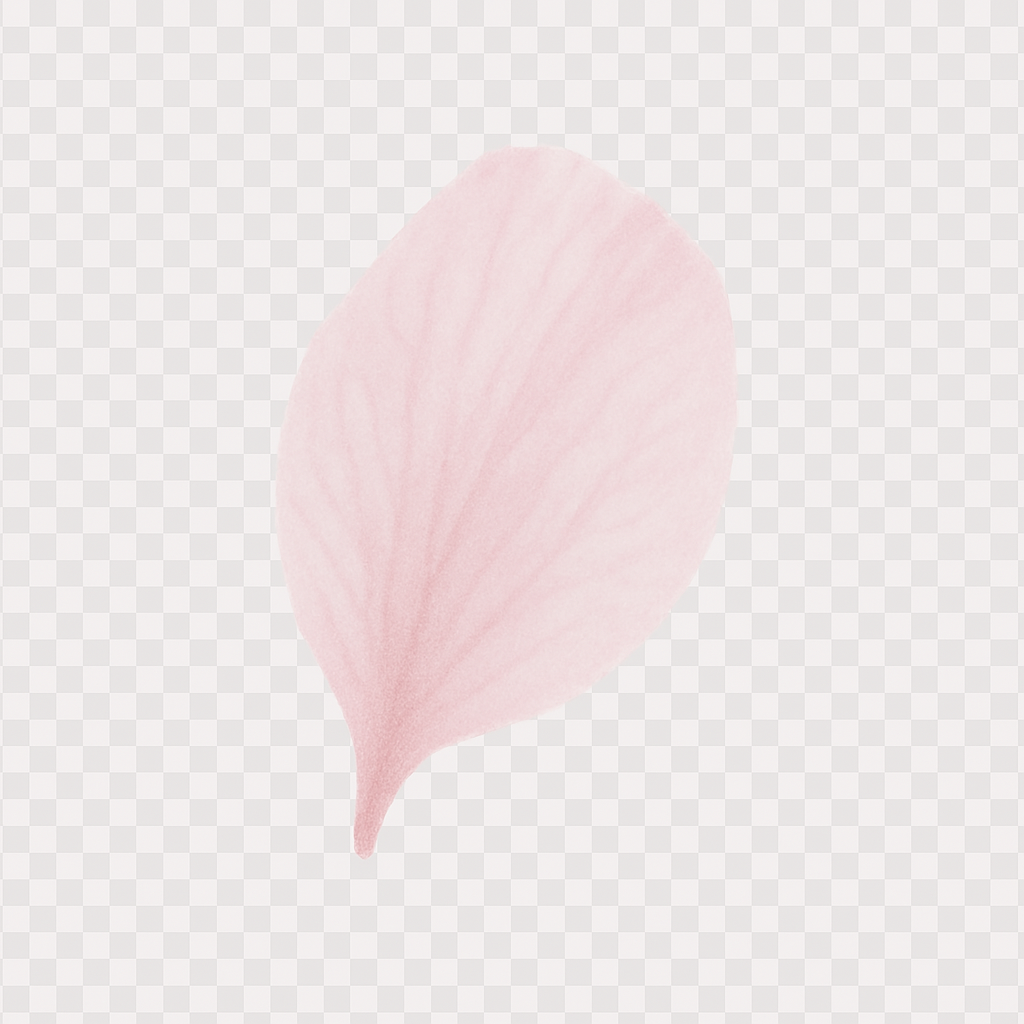
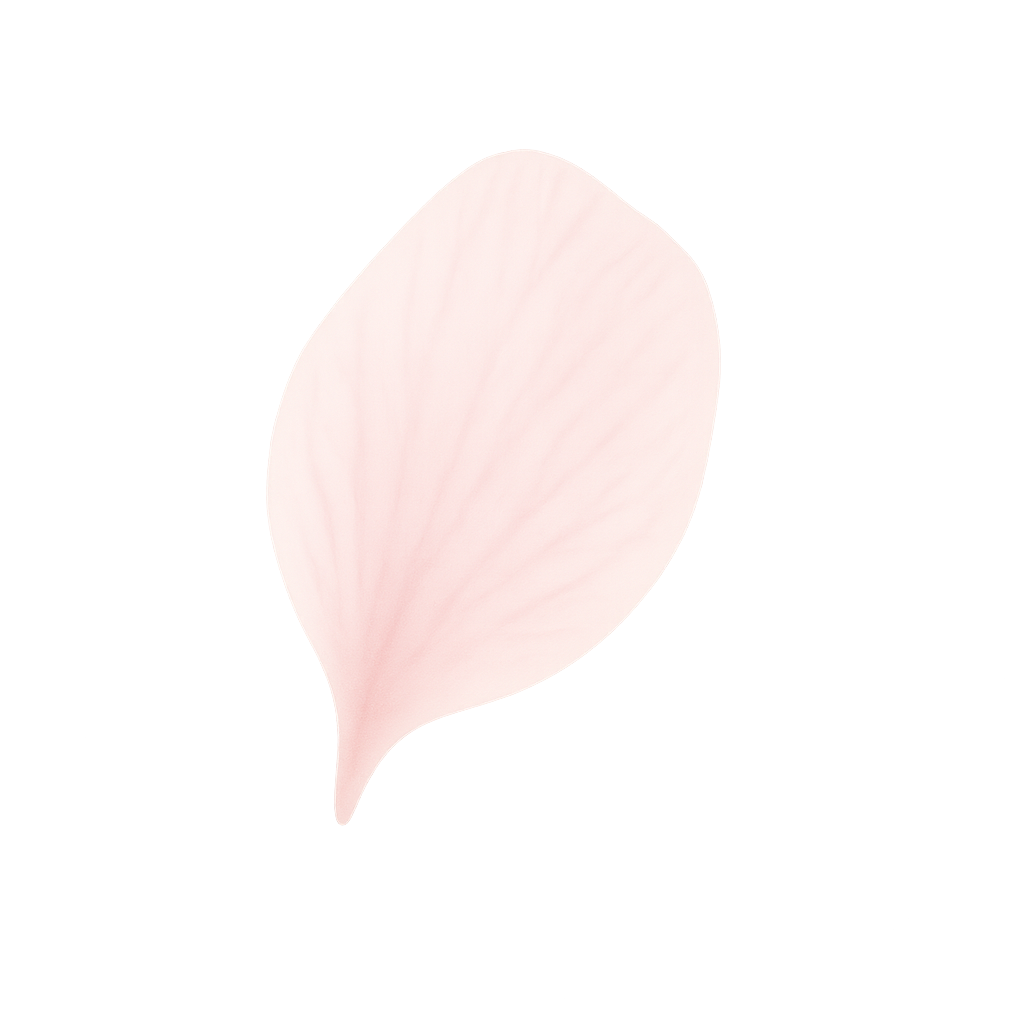
꽃잎 떨어지는 효과 개발

diff --git a/src/components/CherryBlossom.vue b/src/components/CherryBlossom.vue
@@ -1,0 +1,63 @@
+<script setup lang="ts">
+import { computed } from 'vue'
+
+const imageUrl = computed(() => {
+  const num = Math.floor(Math.random() * 5) + 1
+  return `/images/cherry-blossom-leaf-${num}.png`
+})
+
+const petalStyle = computed(() => {
+  const duration = randomBetween(10, 18)
+  const delay = randomBetween(0, 8)
+
+  return {
+    left: `${randomBetween(-10, 100)}%`, // 화면 바깥쪽에서도 애니메이션 시작하도록
+    animationDelay: `${delay}s`,
+    animationDuration: `${duration}s`, // 천천히 떨어지는 효과
+    transform: `scale(${randomBetween(0.4, 0.6)}) rotate(${randomBetween(0, 360)}deg)`, // 크기 랜덤으로 조정
+    opacity: randomBetween(0.7, 1), // 투명도 추가
+    zIndex: Math.floor(randomBetween(5, 15)), // zIndex가 모두 동일하지 않게
+  }
+})
+
+function randomBetween(min: number, max: number) {
+  return Math.random() * (max - min) + min
+}
+</script>
+
+<template>
+  <img class="falling-petal" :src="imageUrl" alt="petal" :style="petalStyle" />
+</template>
+
+<style scoped>
+.falling-petal {
+  position: fixed;
+  top: -10%;
+  width: 24px;
+  height: auto;
+  pointer-events: none;
+  user-select: none;
+  /* 성능 최적화 => transform이 바뀔 거라고 브라우저에 알려줌 */
+  will-change: transform;
+  animation-name: fall;
+  /* 가속도 곡선 => 부드럽게 흔들리며 떨어지는 효과 */
+  animation-timing-function: cubic-bezier(0.45, 0, 0.55, 1);
+  /** 애니메이션 무한 반복 */
+  animation-iteration-count: infinite;
+}
+
+@keyframes fall {
+  0% {
+    transform: translateX(0) translateY(0) rotate(0deg);
+  }
+  30% {
+    transform: translateX(-10vw) translateY(30vh) rotate(60deg);
+  }
+  60% {
+    transform: translateX(10vw) translateY(60vh) rotate(120deg);
+  }
+  100% {
+    transform: translateX(-5vw) translateY(100vh) rotate(180deg);
+  }
+}
+</style>

diff --git a/src/App.vue b/src/App.vue
@@ -2,6 +2,7 @@
 import { storeToRefs } from 'pinia'
 import { computed } from 'vue'
 import { RouterView, useRoute } from 'vue-router'
+import CherryBlossomFall from './components/CherryBlossomFall.vue'
 import SnowFall from './components/SnowFall.vue'
 import DefaultLayout from './layouts/DefaultLayout.vue'
 import customRoutes from './router/customRoutes'
@@ -25,6 +26,7 @@ const layout = computed(() => {
 </script>
 
 <template>
+  <CherryBlossomFall v-if="!isDark && isSeasonThemeActive" :count="20" />
   <SnowFall v-if="isDark && isSeasonThemeActive" />
 
   <component :is="layout">

diff --git a/src/components/CherryBlossomFall.vue b/src/components/CherryBlossomFall.vue
@@ -1,0 +1,13 @@
+<script setup lang="ts">
+import CherryBlossom from './CherryBlossom.vue'
+
+defineProps<{
+  count?: number
+}>()
+</script>
+
+<template>
+  <div>
+    <CherryBlossom v-for="n in count" :key="'petal' + n" />
+  </div>
+</template>
